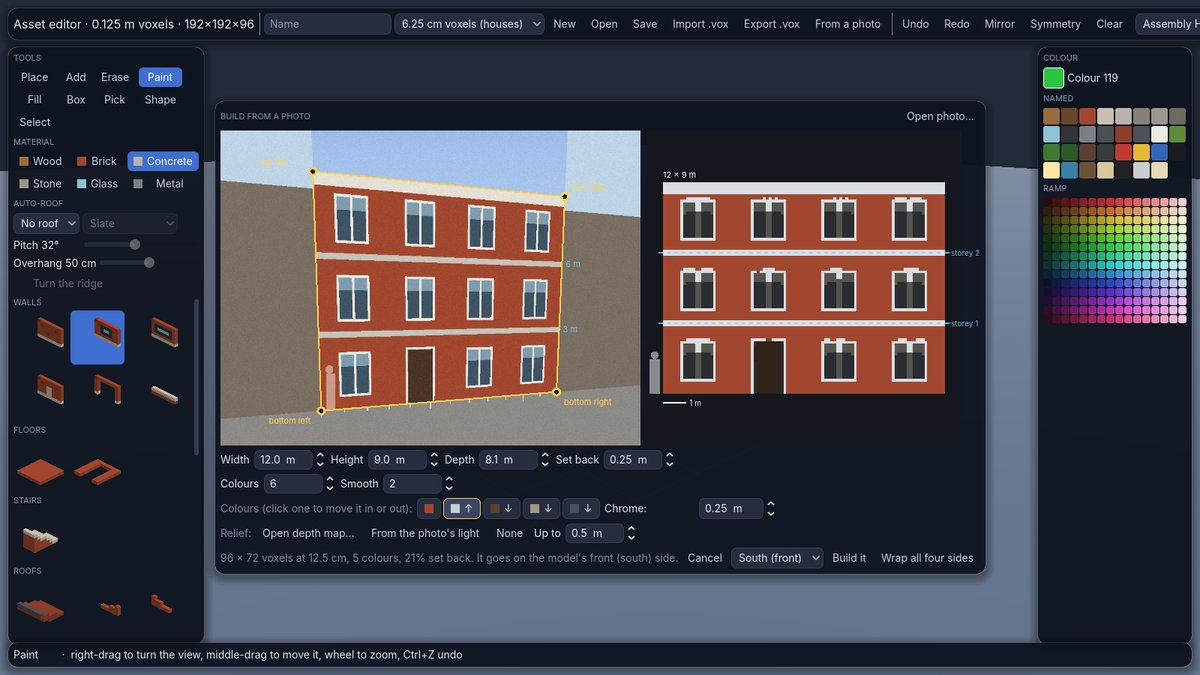
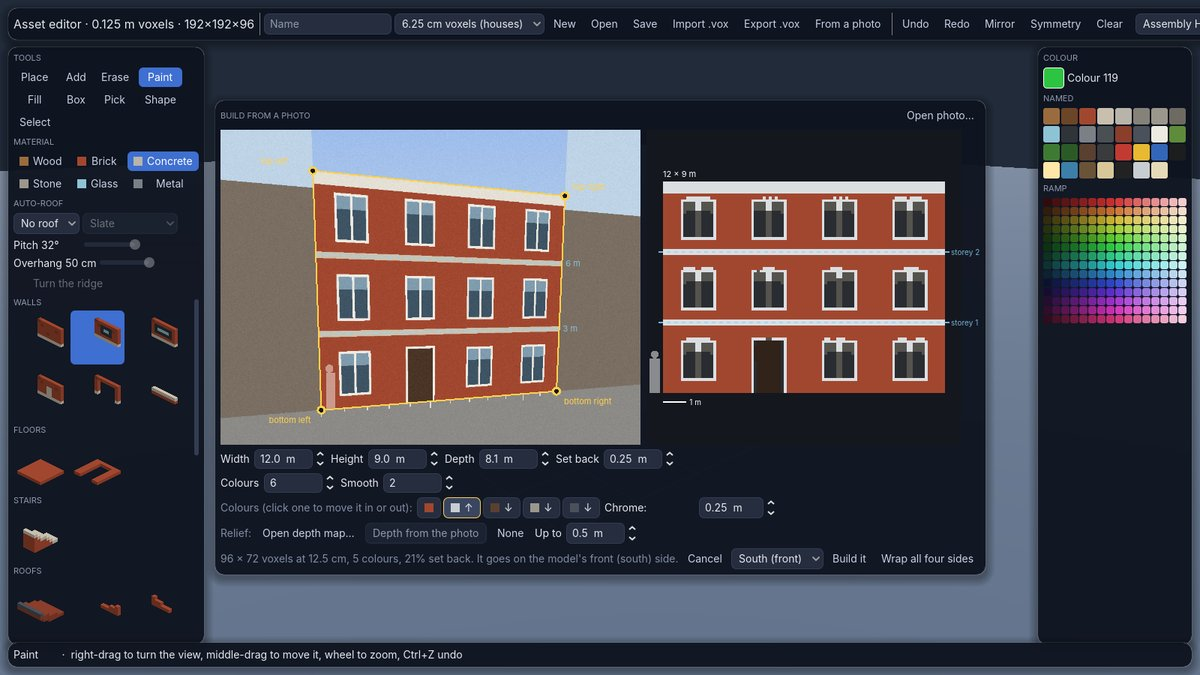
RC part 2.2: a hook for on-device depth estimation in place of the light-based guess
IDepthEstimator and DepthEstimators.ToDepthMap are ready for a depth model; none ships, so the editor's
Depth from the photo button is off. The plan (Depth Anything V2 Small through ONNX Runtime) is in
docs/notes/depth-from-a-photo.md.

Claude-Session: https://claude.ai/code/session_01NPEbfPGESShDuwTLLXkdDx

diff --git a/clients/godot/scripts/AssetEditor.Photo.cs b/clients/godot/scripts/AssetEditor.Photo.cs
@@ -20,7 +20,6 @@ public partial class AssetEditor
     SpinBox _reliefRange = null!;
     Label _reliefInfo = null!;
     Photo? _depthMap;
-    bool _reliefFromLight;
     double _readRecess;
     HBoxContainer _photoGroups = null!;
     Label _photoInfo = null!;
@@ -100,11 +99,13 @@ public partial class AssetEditor
         relief.AddChild(new Label { Text = "Relief:", Modulate = UiTheme.Muted });
         Btn(relief, "Open depth map…", "A greyscale picture lined up with the photo, lighter nearer: each voxel stands out or sits back by it", () =>
             Pick(FileDialog.FileModeEnum.OpenFile, FileDialog.AccessEnum.Filesystem, null, OpenDepthMap));
-        Btn(relief, "From the photo's light", "A rough relief from light and shade: darker sits back, lighter stands out. A guess, not a measured depth", () =>
-        {
-            _depthMap = null; _reliefFromLight = true; ReadPhoto();
-        });
-        Btn(relief, "None", "Flat, apart from each colour's own distance", () => { _depthMap = null; _reliefFromLight = false; ReadPhoto(); });
+        // Depth from the photo itself needs a depth model on this machine; none ships yet (docs/notes/depth-from-a-photo.md).
+        var estimate = Btn(relief, "Depth from the photo", "", EstimateDepth);
+        estimate.Disabled = DepthEstimators.Current == null;
+        estimate.TooltipText = DepthEstimators.Current is { } de
+            ? $"Work out a depth map from the photo with {de.Name}"
+            : "Needs a depth model on this computer, planned for a later release. Load a depth map instead";
+        Btn(relief, "None", "Flat, apart from each colour's own distance", () => { _depthMap = null; ReadPhoto(); });
         _reliefRange = Spin(relief, "Up to", "How far the relief moves a voxel in or out at most", 0.0625, 2, 0.0625, 0.5, " m");
         _reliefInfo = new Label { Modulate = UiTheme.Muted };
         relief.AddChild(_reliefInfo);
@@ -149,7 +150,6 @@ public partial class AssetEditor
     {
         if (LoadPhoto(path) is not { } p) return;
         _depthMap = null;
-        _reliefFromLight = false;
         ShowPhoto(p.Photo, p.Image, PhotoImport.StartCorners(p.Photo), null, null);
         Say($"Opened {System.IO.Path.GetFileName(path)}: drag the corners onto the facade's corners");
     }
@@ -211,8 +211,7 @@ public partial class AssetEditor
         if (was != null && was.Entry.SequenceEqual(_facade.Entry) && _readRecess == o.RecessMetres) Array.Copy(was.Offset, _facade.Offset, was.Offset.Length);
         _readRecess = o.RecessMetres;
         if (_depthMap != null) _facade.Relief = PhotoImport.ReliefFromDepthMap(_facade, _photo, _depthMap, _photoCanvas.Corners, _reliefRange.Value);
-        else if (_reliefFromLight) _facade.Relief = PhotoImport.ReliefFromLight(_facade, _reliefRange.Value);
-        _reliefInfo.Text = _depthMap != null ? "from the depth map" : _reliefFromLight ? "from light and shade (rough)" : "";
+        _reliefInfo.Text = _depthMap != null ? "from the depth map" : "";
         ShowFacade();
     }
 
@@ -255,9 +254,22 @@ public partial class AssetEditor
     {
         if (LoadPhoto(path) is not { } d) return;
         _depthMap = d.Photo;
-        _reliefFromLight = false;
         ReadPhoto();
         Say($"Depth map {System.IO.Path.GetFileName(path)}: lighter stands out, darker sits back");
+    }
+
+    /// <summary>A depth map worked out from the photo by the installed depth model, off the main thread.</summary>
+    void EstimateDepth()
+    {
+        if (DepthEstimators.Current is not { } est || _photo is not { } photo) return;
+        Say($"Working out depth with {est.Name}…");
+        System.Threading.Tasks.Task.Run(() => est.Estimate(photo)).ContinueWith(t => Callable.From(() =>
+        {
+            if (t.IsFaulted) { Say($"Couldn't work out depth: {t.Exception?.GetBaseException().Message}"); return; }
+            _depthMap = t.Result;
+            ReadPhoto();
+            Say($"Depth from {est.Name}: lighter stands out, darker sits back");
+        }).CallDeferred());
     }
 
     void WrapPhoto()

diff --git a/src/ToyCity.ClientModel/Voxels/Assets/DepthEstimate.cs b/src/ToyCity.ClientModel/Voxels/Assets/DepthEstimate.cs
@@ -1,0 +1,53 @@
+namespace ToyCity.ClientModel.Voxels.Assets;
+
+/// <summary>
+/// Something that guesses a depth map from a single photo: a monocular depth model run on the player's machine. None
+/// ships yet; the photo importer's "Depth from the photo" button stays off until one is set in
+/// <see cref="DepthEstimators.Current"/>. Its map goes through the same path as a depth map the player loads
+/// (<see cref="PhotoImport.ReliefFromDepthMap"/>), so nothing past this needs to know where the depth came from.
+/// See docs/notes/depth-from-a-photo.md for the planned model (Depth Anything V2 Small through ONNX Runtime).
+/// </summary>
+public interface IDepthEstimator
+{
+    /// <summary>What to call it in the editor, such as "Depth Anything V2 Small".</summary>
+    string Name { get; }
+
+    /// <summary>A depth map the same size as the photo, lighter nearer. May take a second or more: call it off the main thread.</summary>
+    Photo Estimate(Photo photo, CancellationToken cancel = default);
+}
+
+/// <summary>The depth model the editor uses, if one is installed, and turning a model's raw output into a depth map.</summary>
+public static class DepthEstimators
+{
+    /// <summary>The installed estimator, or null for none (the button is off).</summary>
+    public static IDepthEstimator? Current { get; set; }
+
+    /// <summary>
+    /// A model's raw output (one value a pixel, row by row from the top, <paramref name="width"/> × <paramref name="height"/>)
+    /// as a greyscale depth map, lighter nearer, resized to <paramref name="outWidth"/> × <paramref name="outHeight"/>.
+    /// Models differ in which way round their numbers go: Depth Anything gives relative inverse depth (bigger is
+    /// nearer); give <paramref name="biggerIsNearer"/> false for one that gives distance. The 2nd to 98th percentile is
+    /// stretched to black and white, so a few wild values (the sky, a lens flare) don't flatten the rest.
+    /// </summary>
+    public static Photo ToDepthMap(float[] values, int width, int height, int outWidth, int outHeight, bool biggerIsNearer = true)
+    {
+        if (values.Length != width * height) throw new ArgumentException("values don't match the size", nameof(values));
+        var sorted = values.Where(float.IsFinite).ToArray();
+        Array.Sort(sorted);
+        float lo = sorted.Length == 0 ? 0 : sorted[(int)(sorted.Length * 0.02)], hi = sorted.Length == 0 ? 1 : sorted[Math.Min(sorted.Length - 1, (int)(sorted.Length * 0.98))];
+        float span = Math.Max(1e-6f, hi - lo);
+        var map = new Photo(outWidth, outHeight);
+        for (int y = 0; y < outHeight; y++)
+            for (int x = 0; x < outWidth; x++)
+            {
+                // Nearest source value: the depth map is read again between the corners, averaged per voxel.
+                int sx = Math.Min(width - 1, x * width / outWidth), sy = Math.Min(height - 1, y * height / outHeight);
+                float v = values[sx + width * sy];
+                double t = float.IsFinite(v) ? Math.Clamp((v - lo) / span, 0, 1) : 0;
+                if (!biggerIsNearer) t = 1 - t;
+                byte g = (byte)Math.Round(t * 255);
+                map[x, y] = VoxModel.Rgba(g, g, g);
+            }
+        return map;
+    }
+}

diff --git a/src/ToyCity.ClientModel/Voxels/Assets/PhotoImport.cs b/src/ToyCity.ClientModel/Voxels/Assets/PhotoImport.cs
@@ -85,12 +85,12 @@ public sealed class Facade
 
     /// <summary>
     /// A distance from the face for each cell, in metres, added to its group's: from a depth map
-    /// (<see cref="PhotoImport.ReliefFromDepthMap"/>) or the photo's light and shade
-    /// (<see cref="PhotoImport.ReliefFromLight"/>). Null for none.
+    /// (<see cref="PhotoImport.ReliefFromDepthMap"/>), loaded by the player or made by a depth model
+    /// (<see cref="DepthEstimators"/>). Null for none.
     /// </summary>
     public double[]? Relief { get; set; }
 
-    /// <summary>Each cell's lightness in the photo, 0..1, for making relief from light and shade.</summary>
+    /// <summary>Each cell's lightness in the photo, 0..1.</summary>
     public required double[] Light { get; init; }
 
     /// <summary>A cell's distance from the face in metres: its group's plus its relief.</summary>
@@ -391,29 +391,6 @@ public static class PhotoImport
         var v = Grid(depth, scaled, f.Width, f.Height).Select(Luma).ToArray();
         double mid = Median(v);
         return v.Select(x => Math.Clamp((x - mid) * 2 * rangeMetres, -rangeMetres, rangeMetres)).ToArray();
-    }
-
-    /// <summary>
-    /// A rough relief from the photo's own light and shade, for when there's no depth map: darker than the wall sits
-    /// back, lighter stands out, up to <paramref name="rangeMetres"/>. Softened first, so it follows shapes rather
-    /// than grain. It's a guess from brightness, not a measured depth: a white sill comes out, a dark window goes in,
-    /// but a dark brick band would go in too.
-    /// </summary>
-    public static double[] ReliefFromLight(Facade f, double rangeMetres)
-    {
-        int w = f.Width, h = f.Height;
-        var soft = new double[w * h];
-        for (int y = 0; y < h; y++)
-            for (int x = 0; x < w; x++)
-            {
-                double sum = 0;
-                for (int dy = -1; dy <= 1; dy++)
-                    for (int dx = -1; dx <= 1; dx++)
-                        sum += f.Light[Math.Clamp(x + dx, 0, w - 1) + w * Math.Clamp(y + dy, 0, h - 1)];
-                soft[x + w * y] = sum / 9;
-            }
-        double wall = Median(soft);
-        return soft.Select(v => Math.Clamp((v - wall) * 3 * rangeMetres, -rangeMetres, rangeMetres)).ToArray();
     }
 
     static double Median(double[] v)

diff --git a/tests/ToyCity.ClientModel.Tests/PhotoImportTests.cs b/tests/ToyCity.ClientModel.Tests/PhotoImportTests.cs
@@ -272,7 +272,7 @@ public class PhotoImportTests
     }
 
     [Fact]
-    public void ADepthMapOrTheLightPushesCellsInAndOut()
+    public void ADepthMapPushesCellsInAndOut()
     {
         var (photo, corners, fw, fh) = DemoAsset.FacadePhoto();
         var o = new PhotoOptions { WidthMetres = fw, HeightMetres = fh };
@@ -289,16 +289,29 @@ public class PhotoImportTests
         var (half, _, _, _) = DemoAsset.FacadePhoto(480, 360, depthMap: true);
         var small = PhotoImport.ReliefFromDepthMap(f, photo, half, corners, 0.5);
         Assert.True(small[glass] < -0.05 && small[cornice] > 0.05);
-        // From the light alone: the white cornice comes out, the dark door goes in (glass is about as light as the
-        // brick here, which is why it's only a rough guess).
-        var light = PhotoImport.ReliefFromLight(f, 0.25);
-        int door = (int)(4.5 * 4) + f.Width * (int)(7.8 * 4);
-        Assert.True(light[cornice] > 0 && light[door] < 0, $"cornice {light[cornice]}, door {light[door]}");
         // Built with relief, the cornice stands out of the face.
-        f.Relief = light;
+        f.Relief = map;
         var doc = AssetDoc.New("Terrace", 2, 4, 4, 4);
         var p = PhotoImport.Build(doc, f, o)!;
         Assert.True(p.Face < doc.Model.SizeY - 1);
         Assert.NotEqual(0, doc[p.X0 + 24, p.Face + 1, f.Height - 2]);
+    }
+
+    [Fact]
+    public void ADepthModelsOutputBecomesADepthMap()
+    {
+        // A model's raw output: bigger nearer, a ramp left to right, with one wild value.
+        var raw = new float[8 * 4];
+        for (int y = 0; y < 4; y++) for (int x = 0; x < 8; x++) raw[x + 8 * y] = x;
+        raw[0] = -1000;
+        var map = DepthEstimators.ToDepthMap(raw, 8, 4, 16, 8);
+        Assert.Equal(16, map.Width);
+        byte G(Photo p, int x, int y) => VoxModel.Unpack(p[x, y]).R;
+        Assert.True(G(map, 15, 4) > 240 && G(map, 2, 4) < G(map, 8, 4) && G(map, 8, 4) < G(map, 14, 4));
+        // The other way round for a model that gives distance.
+        var far = DepthEstimators.ToDepthMap(raw, 8, 4, 8, 4, biggerIsNearer: false);
+        Assert.True(G(far, 7, 2) < 15);
+        // None ships, so the editor's button is off.
+        Assert.Null(DepthEstimators.Current);
     }
 }

diff --git a/docs/GATE-RC2-2-PHOTOS.md b/docs/GATE-RC2-2-PHOTOS.md
@@ -6,7 +6,8 @@ the asset's voxels, its colours matched to the palette, and its windows and door
 
 - Each colour can be moved in or out by its own distance.
 - A photo can go on any side of what's built, and one photo can be wrapped round all four sides.
-- A depth map, or a rough relief made from the photo's light and shade, pushes each voxel in or out.
+- A depth map pushes each voxel in or out. Making one from the photo itself, with a depth model on the player's
+  machine, is planned. The hook for it is in place.
 - A new select tool picks a patch of one colour anywhere in a model and pushes it in or pulls it out.
 
 ## What changed
@@ -44,10 +45,13 @@ the asset's voxels, its colours matched to the palette, and its windows and door
     (0.5 m by default).
     - **From a depth map:** a greyscale picture lined up with the photo, lighter nearer. It's read between the same
       corners, and can be a different size from the photo. The facade's middle grey stays on the face.
-    - **From the photo's light and shade:** darker than the wall sits back and lighter stands out, softened so it
-      follows shapes rather than grain. This is a guess from brightness, not a measured depth. A real depth estimate
-      needs a machine-learning model such as Depth Anything, which the game doesn't run. A depth map made with one
-      can be loaded as above.
+    - **From the photo itself: planned, not built.** `IDepthEstimator` and `DepthEstimators`
+      (`DepthEstimate.cs`) are the hook for a depth model run on the player's machine. `DepthEstimators.ToDepthMap`
+      turns a model's raw output into a depth map, which then takes the same path as a loaded one. None ships, so
+      the panel's **Depth from the photo** button is off, with a note to load a depth map instead. The plan is
+      [docs/notes/depth-from-a-photo.md](notes/depth-from-a-photo.md): Depth Anything V2 Small (Apache-2.0, about
+      100 MB, downloaded on first use) through ONNX Runtime. Marigold and the bigger Depth Anything models are ruled
+      out on weight and licence.
 - **The editor's photo panel** (Godot `AssetEditor.Photo.cs`, `PhotoCanvas.cs`), opened with **From a photo** on the
   top bar:
   - **The photo**, with four corners to drag. Inside them, dashed lines every 3 m (a storey), metre ticks along the
@@ -58,7 +62,8 @@ the asset's voxels, its colours matched to the palette, and its windows and door
   - **Settings:** width, height, depth, how far to set back, how many colours and how many filter passes. A new
     photo's height is guessed from the shape of its corners.
   - **A swatch for each colour,** marked ↓ when set back and ↑ when it stands out. Click one, then set its distance.
-  - **Relief:** open a depth map, make one from the photo's light, or none, and how far it reaches.
+  - **Relief:** open a depth map or none, and how far it reaches. **Depth from the photo** is there but off until a
+    depth model is installed.
   - **The side** to build on, **Build it**, and **Wrap all four sides**.
   - **Open photo…** takes PNG, JPEG or WebP. A photo bigger than 2048 px is cut down to it.
 - **The select tool (key 9) in the asset editor** (`AssetEditor.Select.cs`, `AssetDoc.SelectFace` and `Extrude`):
@@ -74,7 +79,7 @@ the asset's voxels, its colours matched to the palette, and its windows and door
 
 ## Checks
 
-- **ClientModel `PhotoImportTests`, 16 new tests (13 facts, one run for each side):**
+- **ClientModel `PhotoImportTests`, 17 new tests (14 facts, plus one run for each side):**
   - A homography takes the four corners where they go and back, and refuses three corners in a line.
   - The keystoned example straightens with glass in every window and brick between them.
   - Read at 25 cm, the facade is 48 × 36 voxels. The wall is brick and stays on the face. The glass in every window
@@ -88,8 +93,9 @@ the asset's voxels, its colours matched to the palette, and its windows and door
   - On each side, the facade faces outward the right way round.
   - A second photo goes onto the side of a block that's already there, centred on it.
   - One photo wrapped round a 12 m block has its windows set back on all four sides, and is one undo step.
-  - A depth map pushes the glass in and the cornice out, also at half the photo's size. Relief from the light brings
-    the white cornice out and takes the dark door in.
+  - A depth map pushes the glass in and the cornice out, also at half the photo's size. Built with it, the cornice
+    stands out of the face.
+  - A depth model's raw output becomes a depth map either way round, with outliers clipped. No model is installed.
   - The select tool picks one patch or every patch of a colour, pushes it in without holing the wall, and pulls it
     out only into open space.
 - **Godot `--editor --shots`:** five new shots, and:
@@ -104,8 +110,8 @@ the asset's voxels, its colours matched to the palette, and its windows and door
 
 - **Standing out past the north or west edge is left off.** The model only grows south and east, so a facade on the
   north or west of a model already at that edge loses whatever would stand out past it.
-- **Relief from the light is a guess.** Brightness isn't depth: on the example the glass is about as light as the
-  brick, so it isn't pushed in, and a dark band would be. A depth map is the better input.
+- **No depth from the photo yet.** The relief needs a depth map made elsewhere, for example with a Depth Anything
+  web demo, until the planned model is added.
 - **Colours are matched by eye, not by material.** A group goes to the nearest palette colour, which may be a ramp
   colour rather than a named material like Brick. Pick a swatch's colour by hand by painting it afterwards.
 - **Tested on a made-up photo.** The example is drawn in code so the checks are exact. Real photos with shadows,

diff --git a/README.md b/README.md
@@ -307,7 +307,7 @@ Each phase ends with a gate the build must pass before the next begins.
 
 | Date | Release | Highlights |
 | --- | --- | --- |
-| 2026-11-06 | **Release candidate, part 2.2: the photo importer** (PR #29) | The asset editor builds a facade from a photo: drag four corners onto the facade and say how wide and tall it is, and it's straightened, cut to the asset's voxels, its colours matched to the palette and specks filtered out so it meshes in big flat pieces, with windows and doors set back. Storey lines and a 1.8 m person drawn in the photo's own perspective show when the size is right. Each colour can be moved in or out. A photo can go on any side of what's built, or one photo can wrap all four sides. A depth map, or a rough relief from the photo's light, pushes each voxel in or out. A new select tool picks a patch by colour and pushes it in or pulls it out. [Gate](docs/GATE-RC2-2-PHOTOS.md) |
+| 2026-11-06 | **Release candidate, part 2.2: the photo importer** (PR #29) | The asset editor builds a facade from a photo: drag four corners onto the facade and say how wide and tall it is, and it's straightened, cut to the asset's voxels, its colours matched to the palette and specks filtered out so it meshes in big flat pieces, with windows and doors set back. Storey lines and a 1.8 m person drawn in the photo's own perspective show when the size is right. Each colour can be moved in or out. A photo can go on any side of what's built, or one photo can wrap all four sides. A depth map pushes each voxel in or out, and the hook for making one from the photo with an on-device depth model is in place. A new select tool picks a patch by colour and pushes it in or pulls it out. [Gate](docs/GATE-RC2-2-PHOTOS.md) |
 | 2026-11-06 | **Release candidate, part 2.1: smooth shapes and the destruction swap** (PR #28) | Round things are real curves: domes, columns, tanks, cooling towers, cones and trees are drawn as polygons from a 2D profile, flat where it's straight and smoothly lit where it bends, and lighter than the voxels they replace. Buildings keep their voxels, and one that burns, falls derelict or comes down swaps to them, holed through the roof and walls, charred, with rubble. The asset editor's shape tool draws a profile on a metre grid with storey lines and a 1.8 m person for scale, then spins it (lathe), pulls it (extrude) or runs it along a path (sweep). [Gate](docs/GATE-RC2-1-SHAPES.md) |
 | 2026-11-05 | **Release candidate, part 2: the realistic asset set** (PRs #26, #27) | Every building has a real model in place of the placeholder blocks: houses of library pieces under auto-roofs, walk-ups, brownstone rows and garden courts, towers, shops, strip malls and offices, sheds, foundries and a smelter, plants, services, parks, depots and the landmarks. Each zoned type comes in three variants, buildings face their road, and models use the finest detail their lot allows. `--gallery` shows them all. [Gate](docs/GATE-RC2-ASSETS.md) |
 | 2026-11-05 | **Release candidate, part 1.1: finer houses and the auto-roof** (PR #25) | Houses default to 6.25 cm voxels (about 2.5 inches), the finest that fits a whole 16 m lot in one `.vox` model. A Sims-style auto-roof of smooth polygons finds the top of the walls and roofs whatever they enclose: gable, hip (with hips and valleys round an L or T), shed or flat, at a chosen pitch, overhang and covering, with a fascia and soffit. It's saved as settings with the asset and drawn by the game on the building at every zoom level. [Gate](docs/GATE-RC1-ROOFS.md) |

diff --git a/docs/notes/depth-from-a-photo.md b/docs/notes/depth-from-a-photo.md
@@ -1,0 +1,48 @@
+# Depth from a photo: planned, not built
+
+The photo importer can take a depth map: a greyscale picture lined up with the photo, lighter nearer, which pushes
+each voxel in or out. This note is the plan for making that map from the photo itself, on the player's machine. The
+hook for it is in place (`IDepthEstimator` and `DepthEstimators` in
+`src/ToyCity.ClientModel/Voxels/Assets/DepthEstimate.cs`). The editor's **Depth from the photo** button is there but
+off until an estimator is installed.
+
+## The model
+
+**Depth Anything V2 Small** (Apache-2.0).
+
+- It's about 25M parameters, roughly 100 MB as a 32-bit ONNX file and half that at 16-bit.
+- It should take about a second a photo on most graphics cards and a few seconds on a processor.
+- Its output is relative inverse depth, where bigger is nearer, which is what `DepthEstimators.ToDepthMap` expects by
+  default.
+
+Not these:
+
+- **Depth Anything V2 Base and Large** are licensed CC-BY-NC-4.0, non-commercial only, so they can't ship in the game.
+- **Marigold** is built on Stable Diffusion. It needs around 4–8 GB of graphics memory and many denoising steps a
+  photo, which is too heavy for most players' machines.
+
+## How it would run
+
+- **Runtime.** Use `Microsoft.ML.OnnxRuntime` from the Godot client (C#). On Windows, use the DirectML build so it
+  runs on any DirectX 12 graphics card, and fall back to the processor. On Linux and macOS use the processor, which
+  is still a few seconds a photo.
+- **Download.** Fetch the model on first use, not in the game download, into `user://models/depth-anything-v2-small.onnx`.
+  - Check it against a pinned SHA-256 before loading.
+  - Show the size and ask first ("Download the depth model, about 100 MB?").
+  - Keep a link to the licence beside it.
+- **Input.**
+  - Scale the photo so its short side is 518 px and both sides are multiples of 14. This is the model's patch size.
+  - Normalise RGB with the ImageNet mean (0.485, 0.456, 0.406) and deviation (0.229, 0.224, 0.225).
+  - The tensor is NCHW float32.
+- **Output.** A `[1, H, W]` float map. `DepthEstimators.ToDepthMap(values, W, H, photo.Width, photo.Height)` turns
+  it into a depth map the photo's size, stretching the 2nd to 98th percentile to black and white.
+- **Editor.** Run it off the main thread with a "Working out depth…" note, since long actions need immediate
+  feedback. Then set the importer's depth map, exactly as if the player had loaded one.
+
+## What's left to do
+
+1. Add the ONNX Runtime package to `clients/godot`, and an `OnnxDepthEstimator : IDepthEstimator` in the Godot
+   client. Keep ClientModel free of the dependency.
+2. Add the download with a progress bar, the hash check and the licence note.
+3. Set `DepthEstimators.Current` when the model file is present.
+4. Test it on a few real building photos and compare against a hand-made depth map.
